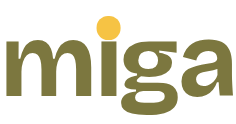
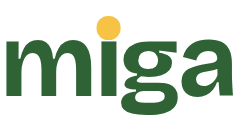
Aplica el verde bosque a las exportaciones Excel y PDF

Changed region(s): [[0.4153, 0.3145, 1.0, 0.9435], [0.0, 0.3145, 0.3856, 0.7742]]

diff --git a/backend/src/test/java/uy/miga/habitos/WeekExportTest.java b/backend/src/test/java/uy/miga/habitos/WeekExportTest.java
@@ -139,7 +139,7 @@ class WeekExportTest {
         assertThat(xml.get("xl/drawings/miga1.xml")).contains("Logo oficial de Miga", "rIdLogo");
         assertThat(xml.get("xl/drawings/miga2.xml")).contains("Logo oficial de Miga", "rIdLogo");
         assertThat(xml.get("xl/drawings/_rels/miga1.xml.rels")).contains("../media/miga-wordmark.png");
-        assertThat(xml.get("xl/styles.xml")).contains("F2F1EA", "7C773F", "F6C344", "wrapText=\"true\"");
+        assertThat(xml.get("xl/styles.xml")).contains("F2F1EA", "2F6336", "F6C344", "wrapText=\"true\"");
         for (int sheet = 1; sheet <= 2; sheet++) {
             assertThat(xml.get("xl/worksheets/sheet" + sheet + ".xml"))
                 .contains("orientation=\"landscape\"", "fitToWidth=\"1\"", "state=\"frozen\"", "<hyperlink ", "<drawing r:id=\"rIdMigaLogo\"");

diff --git a/backend/src/main/java/uy/miga/habitos/WeekExport.java b/backend/src/main/java/uy/miga/habitos/WeekExport.java
@@ -207,12 +207,12 @@ final class WeekExport {
         writeXlsx(Data.of(week), out);
     }
 
-    // Paleta clara de la app: papel salvia, tinta, oliva y acento amarillo.
+    // Paleta clara de la app: papel salvia, tinta, verde bosque y acento amarillo.
     private static final String PAPER = "F2F1EA";
     private static final String SURFACE = "FBFAF5";
     private static final String INK = "040200";
-    private static final String MUTED = "5E5A2E";
-    private static final String BRAND = "7C773F";
+    private static final String MUTED = "3F5E3A";
+    private static final String BRAND = "2F6336";
     private static final String ACCENT = "F6C344";
     private static final String LINE = "E2E0D3";
     private static final String SITE = "https://miga.uy";

diff --git a/backend/src/main/resources/export/README.md b/backend/src/main/resources/export/README.md
@@ -3,7 +3,7 @@
 `miga-wordmark.png` reproduce el componente oficial `frontend/src/components/Brand.tsx`
 y las reglas `.brand`, `.brand-i` y `.brand-i::after` de `frontend/src/index.css`.
 Se renderizó en Chromium a 4×, con Bricolage Grotesque 700 a 26 px,
-el oliva `#7C773F` y el punto amarillo `#F6C344`, sobre fondo transparente.
+el verde bosque `#2F6336` y el punto amarillo `#F6C344`, sobre fondo transparente.
 
 PDF y Excel usan esta misma imagen, conservando su proporción. No se usa el ícono
 de instalación ni se reconstruye el nombre con una fuente de texto del documento.
